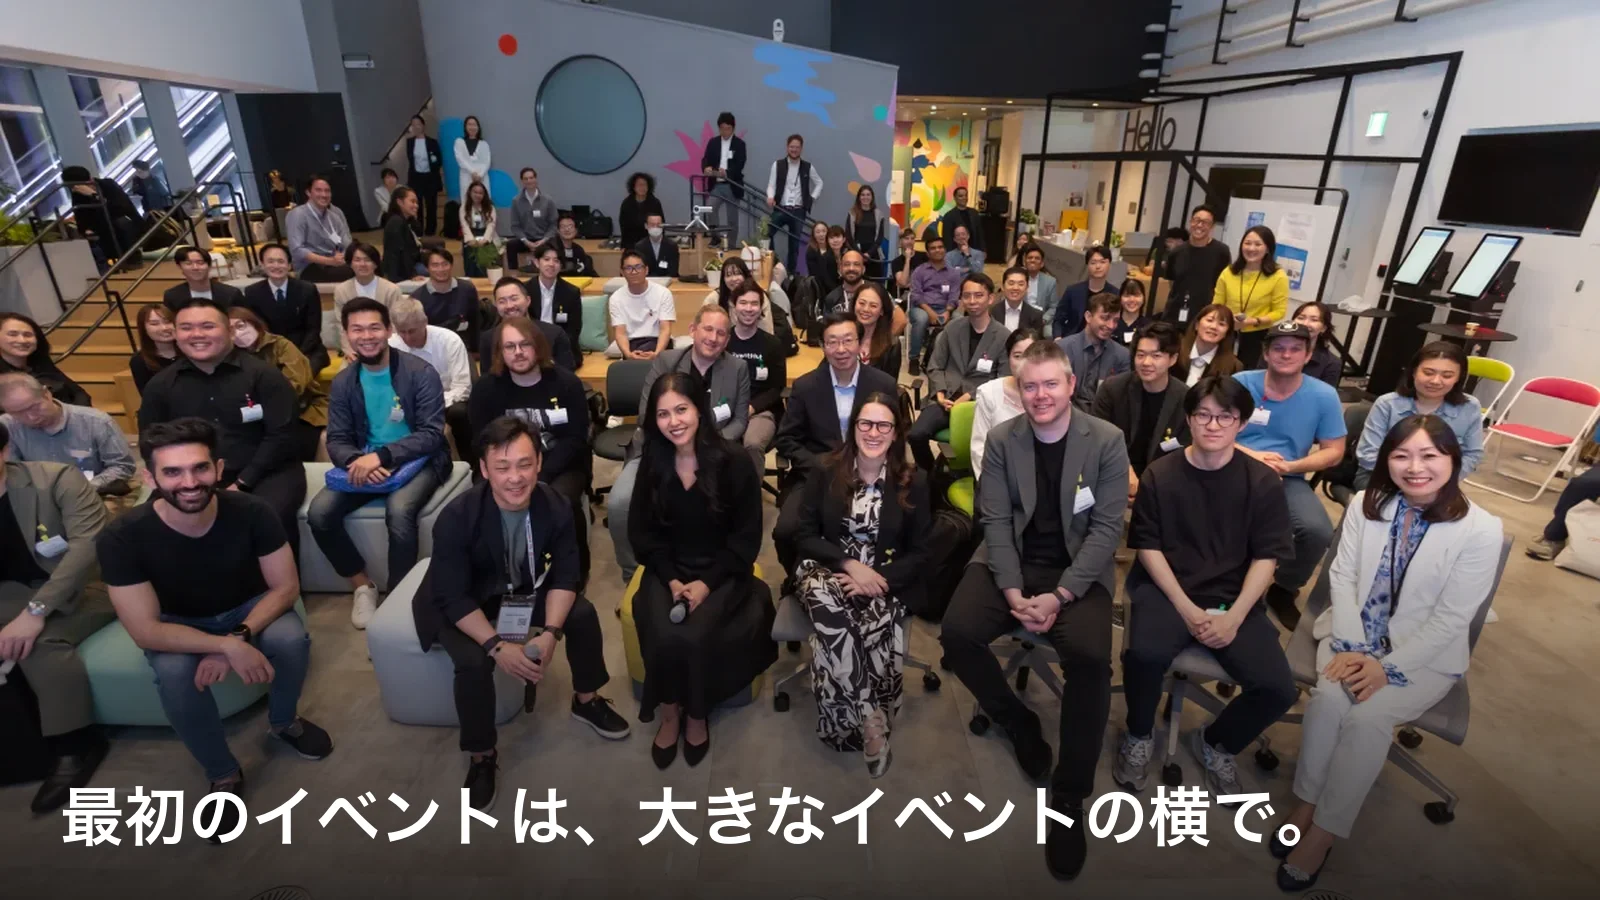
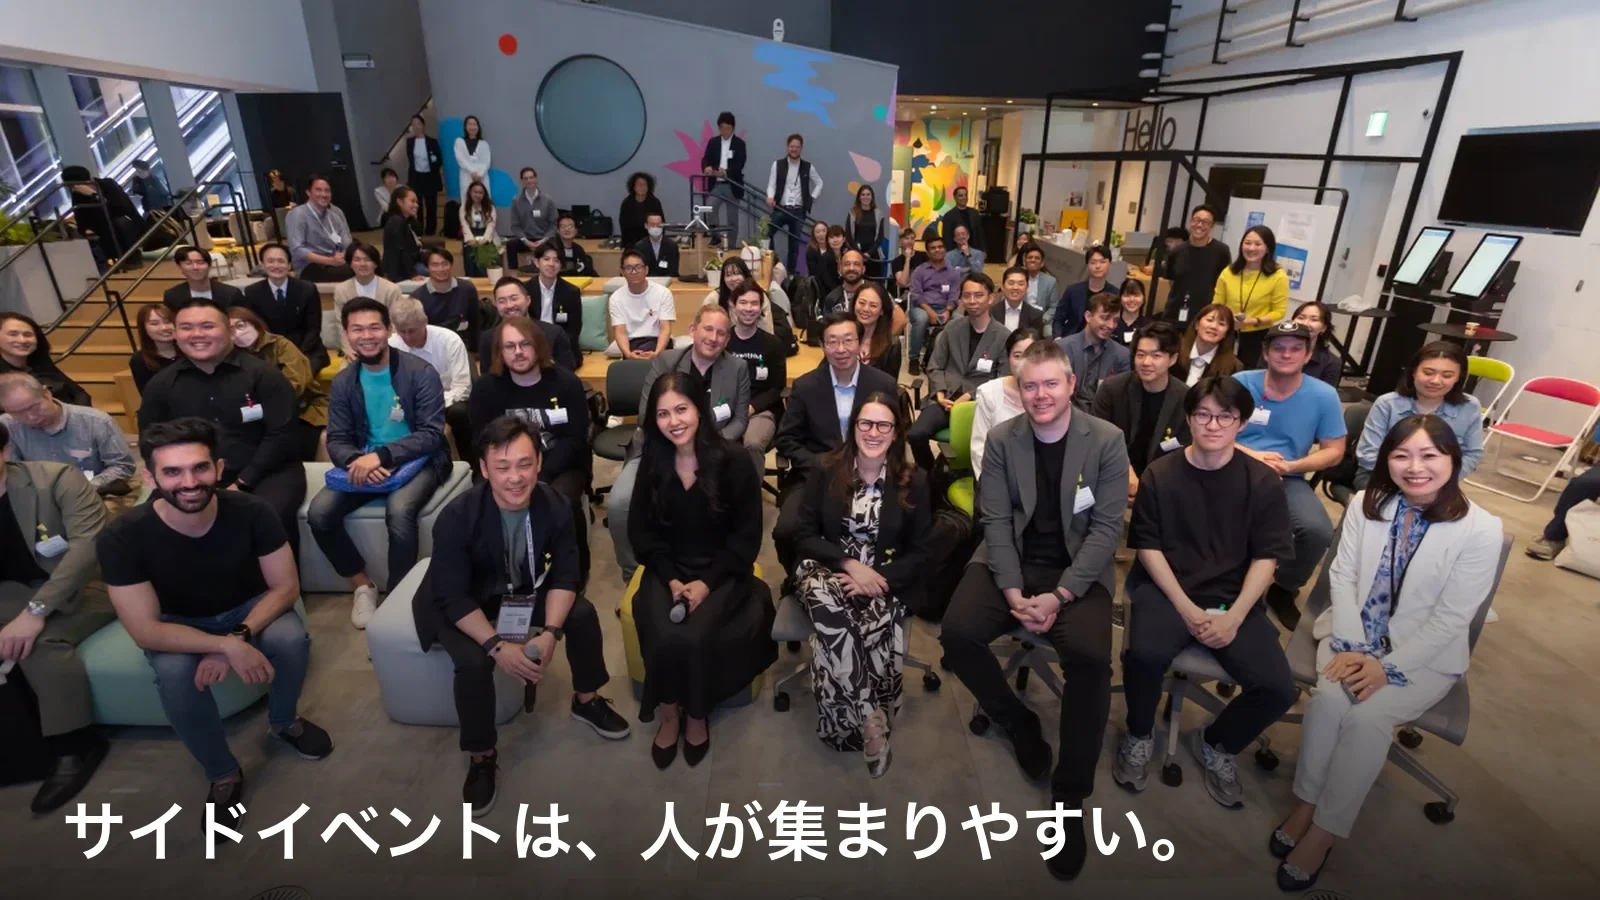
コラム修正：サイドイベント記事のタイトル・冒頭・ヒーロー画像文言

Changed region(s): [[0.4062, 0.8711, 0.8125, 0.9644], [0.0312, 0.8711, 0.375, 0.9644]]

diff --git a/src/content/column/ja/side-event.md b/src/content/column/ja/side-event.md
@@ -1,19 +1,19 @@
 ---
-title: "外資系企業の日本でのイベント｜東京で初めてのイベントは、大きなイベントのサイドイベントとして開く"
-description: "東京で初めてイベントを開くなら、大きなイベントの期間中に開くサイドイベントが集客しやすい理由と、SusHi Tech・Japan Fintech Week・Tokyo Tech Week の例、申し込み前の注意点を説明します。"
+title: "外資系企業の日本でのイベント｜サイドイベントを主催するメリットと注意点（SusHi Tech・Tokyo Tech Week など）"
+description: "SusHi Tech Tokyo・Tokyo Tech Week・Japan Fintech Week など、東京の大きなイベントに合わせてサイドイベントを主催するメリットと、申し込み前に確認したい注意点を説明します。"
 date: 2026-11-20
 slug: "side-event"
 lang: "ja"
 category: "planning"
 author: "shintaro"
 altSlug: "side-events-during-big-tokyo-conferences"
-lead: "大きなイベントの期間中は、登壇者も参加者も東京に集まります。サイドイベントなら単独より人が集まりやすく、事前に確認したいルールもあります。"
+lead: "サイドイベントは、大きなイベントで東京に集まる人たちを呼び込めるため、単独で開くより人が集まりやすい傾向があります。ただし、イベントごとにルールがあるので、申し込み前の確認が必要です。"
 heroImage: "/images/column/side-event-hero.webp"
 heroCredit: "Photo: Conectando（New York Silicon Alley Meetup #12）"
-keywords: ["サイドイベント 東京", "SusHi Tech Tokyo サイドイベント", "Tokyo Tech Week 申し込み", "Japan Fintech Week 連携イベント", "外資系 イベント 初めて"]
+keywords: ["サイドイベント 東京", "SusHi Tech Tokyo サイドイベント", "Tokyo Tech Week 申し込み", "Japan Fintech Week 連携イベント", "外資系 イベント 初めて", "サイドイベント 主催", "SusHi Tech サイドイベント", "Tokyo Tech Week サイドイベント"]
 ---
 
-東京で初めてイベントを開くなら、単独で開くよりも、大きなイベントの期間中に「サイドイベント」として開くと人を集めやすくなります。
+東京でイベントを開くとき、大きなイベントの期間中に「サイドイベント」として開くのも1つの方法です。単独で開くより、人を集めやすいことが多いからです。
 
 ## なぜ、大きなイベントに合わせるのか
 

diff --git a/src/content/column/en/side-events-during-big-tokyo-conferences.md b/src/content/column/en/side-events-during-big-tokyo-conferences.md
@@ -1,20 +1,20 @@
 ---
-title: "Hold Your First Tokyo Event as a Side Event to a Bigger One"
-description: "Why a side event during a big Tokyo conference is easier to fill than a standalone event, which big events accept side events, and what to watch out for before you apply."
+title: "Hosting a Side Event in Tokyo: Why It's Easier to Fill and What to Check Before You Apply"
+description: "Why hosting a side event during a big Tokyo conference such as SusHi Tech Tokyo, Tokyo Tech Week or Japan Fintech Week is easier to fill than a standalone event, and what to check before you apply."
 date: 2026-11-20
 slug: "side-events-during-big-tokyo-conferences"
 lang: "en"
 category: "planning"
 author: "shintaro"
 altSlug: "side-event"
-lead: "Speakers and attendees are already in Tokyo during a big conference, so a side event is easier to fill than a standalone one. Here are the events to look at and the rules to check first."
+lead: "A side event rides on the crowd a big conference brings to Tokyo, so it is often easier to fill than a standalone event. Each conference has its own rules, so read them before you apply."
 heroImage: "/images/column/side-events-during-big-tokyo-conferences-hero.webp"
 heroCredit: "Photo: Conectando (New York Silicon Alley Meetup #12)"
 featured: false
-keywords: ["side event Tokyo", "SusHi Tech Tokyo side event", "Tokyo Tech Week side event", "Japan Fintech Week partner event", "first event in Tokyo"]
+keywords: ["side event Tokyo", "SusHi Tech Tokyo side event", "Tokyo Tech Week side event", "Japan Fintech Week partner event", "first event in Tokyo", "host a side event Tokyo", "SusHi Tech side event", "Japan Fintech Week side event"]
 ---
 
-If you are holding your first event in Tokyo, it is often easier to attract people by running it as a side event during a big conference than by holding it on its own.
+When you hold an event in Tokyo, one option is to run it as a side event during a big conference. It is often easier to attract people than holding it on its own.
 
 ## Why time it with a big event
 
